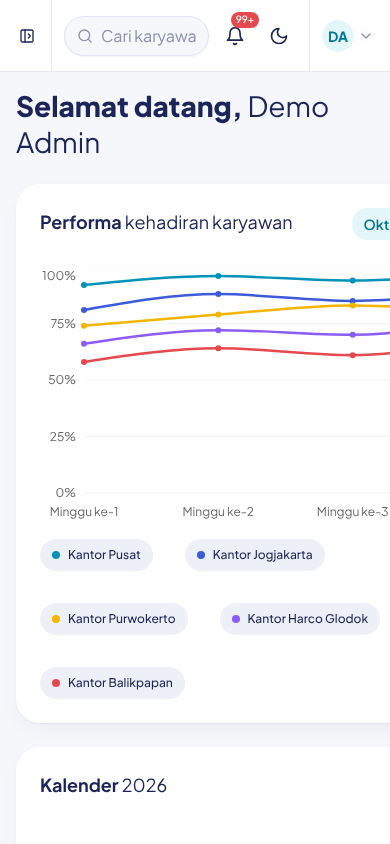
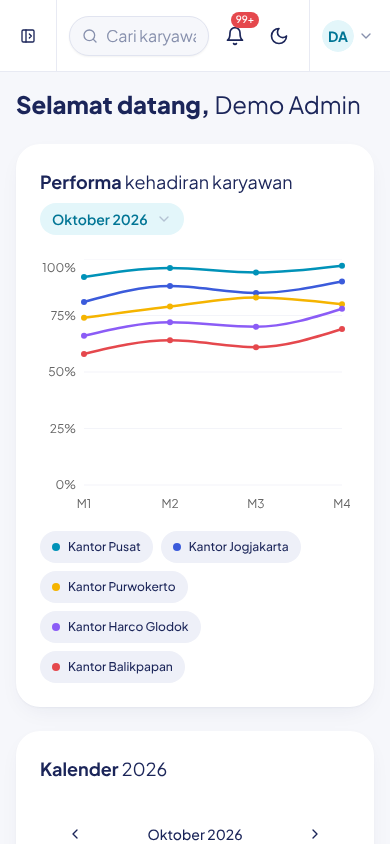
Mobile fixes and smoother sidebar collapse
- Dashboard: no horizontal overflow (grid-cols-1 + min-w-0), chart header stacks,
  short x-axis labels on mobile, smaller page title
- Touch targets >=40px on coarse pointers (button/toggle/select/tabs variants)
- Jabatan Fungsional: icon-only row actions and full-width add button on mobile
- Sidebar: no horizontal scroll (separator width), icons no longer jump during
  collapse (3.5rem rail, label fades), steady separator, fade header swap
- Calendar: symmetric selected day, no square 'today' backdrop
- Docs and README screenshots updated

Claude-Session: https://claude.ai/code/session_01GRZLXeEPPAbeHc9RCNFXTc

diff --git a/src/components/dashboard/shell.tsx b/src/components/dashboard/shell.tsx
@@ -42,7 +42,7 @@ function SidebarToggle({ className }: { className?: string }) {
 }
 
 const menuButton =
-  "h-10 rounded-xl font-medium data-[active=true]:font-semibold [&>svg]:size-5 group-data-[collapsible=icon]:size-11! group-data-[collapsible=icon]:justify-center group-data-[collapsible=icon]:gap-0 group-data-[collapsible=icon]:p-0! group-data-[collapsible=icon]:[&>span]:hidden"
+  "h-10 rounded-xl font-medium data-[active=true]:font-semibold [&>svg]:size-5 group-data-[collapsible=icon]:size-10! group-data-[collapsible=icon]:p-2.5! [&>span]:transition-opacity [&>span]:duration-150 group-data-[collapsible=icon]:[&>span]:opacity-0"
 
 /** Menu bersubmenu: Collapsible saat sidebar terbuka; dropdown (flyout) saat sidebar ciut. */
 function NavGroup({ item, path, collapsed, onNavigate }: { item: NavItem; path: string; collapsed: boolean; onNavigate: () => void }) {
@@ -135,29 +135,29 @@ export function AppSidebar({ path }: { path: string }) {
     <Sidebar collapsible="icon">
       <SidebarHeader className="h-[72px] justify-center border-b px-4 group-data-[collapsible=icon]:px-0">
         {collapsed ? (
-          <SidebarToggle className="mx-auto size-10" />
+          <SidebarToggle className="mx-auto size-10 animate-in fade-in-0 duration-300" />
         ) : (
-          <div className="flex items-center gap-3">
+          <div className="flex items-center gap-3 animate-in fade-in-0 duration-300">
             <span className="grid size-10 shrink-0 place-items-center rounded-xl bg-primary text-lg font-extrabold text-primary-foreground">f</span>
             <span className="min-w-0 flex-1 truncate text-xs font-bold tracking-[0.12em]">DEMO ACCOUNT</span>
             {!isMobile && <SidebarToggle className="size-8" />}
           </div>
         )}
       </SidebarHeader>
-      <SidebarContent>
+      <SidebarContent className="overflow-x-hidden [scrollbar-width:none] [&::-webkit-scrollbar]:hidden">
         <SidebarGroup>
           <SidebarGroupContent>
-            <SidebarMenu className="gap-1 group-data-[collapsible=icon]:items-center">{navTop.map(renderItem)}</SidebarMenu>
+            <SidebarMenu className="gap-1">{navTop.map(renderItem)}</SidebarMenu>
           </SidebarGroupContent>
         </SidebarGroup>
 
         {/* Pemisah: garis saat sidebar ciut, label "Menu Utama" saat terbuka */}
-        <SidebarSeparator className="mx-4 group-data-[collapsible=icon]:mx-3" />
+        <SidebarSeparator className="mx-3 data-[orientation=horizontal]:w-auto" />
 
         <SidebarGroup>
-          <SidebarGroupLabel className="px-2 text-[11px] font-semibold uppercase tracking-wider text-muted-foreground">Menu Utama</SidebarGroupLabel>
+          <SidebarGroupLabel className="whitespace-nowrap px-2 text-[11px] font-semibold uppercase tracking-wider text-muted-foreground">Menu Utama</SidebarGroupLabel>
           <SidebarGroupContent>
-            <SidebarMenu className="gap-1 group-data-[collapsible=icon]:items-center">{navMain.map(renderItem)}</SidebarMenu>
+            <SidebarMenu className="gap-1">{navMain.map(renderItem)}</SidebarMenu>
           </SidebarGroupContent>
         </SidebarGroup>
       </SidebarContent>
@@ -258,7 +258,7 @@ export function Topbar() {
       {/* Desktop: tombol collapse/expand ada di header sidebar. Mobile: sidebar berupa Sheet, jadi tombol di sini. */}
       {isMobile && (
         <>
-          <SidebarToggle className="ml-[11px] mr-0 size-8" />
+          <SidebarToggle className="ml-2 mr-0 size-10" />
           <Separator orientation="vertical" className="data-[orientation=vertical]:h-full" />
         </>
       )}
@@ -301,7 +301,7 @@ export function Topbar() {
       {/* Akun: hanya avatar */}
       <Separator orientation="vertical" className="mx-1 h-6 md:mx-2" />
       <DropdownMenu>
-        <DropdownMenuTrigger aria-label="Akun saya" className="flex items-center gap-1 rounded-full outline-none focus-visible:ring-[3px] focus-visible:ring-ring/40">
+        <DropdownMenuTrigger aria-label="Akun saya" className="flex h-10 items-center gap-1 rounded-full outline-none focus-visible:ring-[3px] focus-visible:ring-ring/40">
           <Avatar><AvatarFallback>DA</AvatarFallback></Avatar>
           <ChevronDown className="size-4 text-muted-foreground" />
         </DropdownMenuTrigger>

diff --git a/src/components/dashboard/attendance-chart.tsx b/src/components/dashboard/attendance-chart.tsx
@@ -5,6 +5,7 @@ import { ChartContainer, ChartTooltip, ChartTooltipContent, type ChartConfig } f
 import { Select, SelectContent, SelectItem, SelectTrigger, SelectValue } from "@/components/ui/select"
 import { ToggleGroup, ToggleGroupItem } from "@/components/ui/toggle-group"
 import { attendanceTrend, offices } from "@/data/mock"
+import { useIsMobile } from "@/hooks/use-mobile"
 
 const config = Object.fromEntries(
   offices.map((o) => [o.key, { label: o.name, color: o.color }])
@@ -13,12 +14,13 @@ const config = Object.fromEntries(
 /** Grafik performa kehadiran per kantor; ToggleGroup menyalakan/mematikan seri. */
 export function AttendanceChart() {
   const [visible, setVisible] = useState<string[]>(offices.map((o) => o.key))
+  const isMobile = useIsMobile()
 
   return (
     <Card>
-      <CardHeader>
+      <CardHeader className="max-sm:grid-cols-1">
         <CardTitle>Performa <span>kehadiran karyawan</span></CardTitle>
-        <CardAction>
+        <CardAction className="max-sm:col-start-1 max-sm:row-start-2 max-sm:justify-self-start">
           <Select defaultValue="2026-10">
             <SelectTrigger size="sm" className="rounded-xl border-0 bg-primary-soft font-semibold text-primary shadow-none" aria-label="Bulan">
               <SelectValue />
@@ -35,7 +37,7 @@ export function AttendanceChart() {
         <ChartContainer config={config} className="h-64 w-full">
           <LineChart data={attendanceTrend} margin={{ left: -16, right: 8 }}>
             <CartesianGrid vertical={false} />
-            <XAxis dataKey="week" tickLine={false} axisLine={false} tickMargin={8} />
+            <XAxis dataKey="week" tickLine={false} axisLine={false} tickMargin={8} interval={0} tickFormatter={(v: string) => (isMobile ? v.replace("Minggu ke-", "M") : v)} />
             <YAxis domain={[0, 100]} ticks={[0, 25, 50, 75, 100]} unit="%" tickLine={false} axisLine={false} />
             <ChartTooltip content={<ChartTooltipContent />} />
             {offices.map((o) =>

diff --git a/src/pages/dashboard.tsx b/src/pages/dashboard.tsx
@@ -32,13 +32,13 @@ export default function Dashboard() {
       Selamat datang, <span className="font-normal">Demo Admin</span>
     </PageHeader>
 
-    <div className="grid gap-6 xl:grid-cols-3">
-      <div className="xl:col-span-2">{loading ? <ChartCardSkeleton /> : <AttendanceChart />}</div>
+    <div className="grid grid-cols-1 gap-6 xl:grid-cols-3">
+      <div className="min-w-0 xl:col-span-2">{loading ? <ChartCardSkeleton /> : <AttendanceChart />}</div>
       {loading ? <CalendarSkeleton /> : <CalendarCard />}
     </div>
 
-    <div className="grid gap-6 xl:grid-cols-3">
-      <div className="xl:col-span-2">{loading ? <ListCardSkeleton rows={4} /> : <LeaveRequests />}</div>
+    <div className="grid grid-cols-1 gap-6 xl:grid-cols-3">
+      <div className="min-w-0 xl:col-span-2">{loading ? <ListCardSkeleton rows={4} /> : <LeaveRequests />}</div>
       {loading ? <ListCardSkeleton rows={4} ring /> : <DailyMonitoring />}
     </div>
 
@@ -48,7 +48,7 @@ export default function Dashboard() {
         <CardTitle>Detail <span>kuota yang Anda miliki</span></CardTitle>
         <CardAction><Button variant="link" size="sm">Lihat selengkapnya →</Button></CardAction>
       </CardHeader>
-      <CardContent className="grid gap-4 md:grid-cols-3">
+      <CardContent className="grid grid-cols-1 gap-4 md:grid-cols-3">
         <QuotaCard title="Perangkat" icon={Fingerprint} tone="lilac" total={51} used={18} />
         <QuotaCard title="Absensi GPS via Ponsel" icon={MapPin} tone="cyan" total={106} used={87} />
         <QuotaCard title="Karyawan" icon={Users} tone="peach" total={5406} used={369} />
@@ -56,7 +56,7 @@ export default function Dashboard() {
     </Card>
     )}
 
-    <div className="grid gap-6 lg:grid-cols-2">
+    <div className="grid grid-cols-1 gap-6 lg:grid-cols-2">
       {loading ? <><ListCardSkeleton rows={5} /><ListCardSkeleton rows={5} /></> : <>
       <PagedCard
         title="Karyawan" titleRest="indisipliner"

diff --git a/src/pages/functional-positions.tsx b/src/pages/functional-positions.tsx
@@ -84,7 +84,7 @@ export default function FunctionalPositions() {
             <TableHeader>
               <TableRow>
                 <TableHead aria-sort={asc === null ? "none" : asc ? "ascending" : "descending"}>
-                  <button type="button" onClick={() => setAsc((a) => (a === null ? true : a ? false : null))} className="inline-flex items-center gap-1.5 text-xs font-bold uppercase tracking-wide">
+                  <button type="button" onClick={() => setAsc((a) => (a === null ? true : a ? false : null))} className="-my-2 inline-flex min-h-10 items-center gap-1.5 text-xs font-bold uppercase tracking-wide">
                     Nama Jabatan <SortIcon className="size-3.5 text-muted-foreground" />
                   </button>
                 </TableHead>
@@ -110,8 +110,8 @@ export default function FunctionalPositions() {
                     <TableCell className="py-4 font-medium">{r.name}</TableCell>
                     <TableCell className="py-4">
                       <div className="flex justify-end gap-2">
-                        <Button size="sm" variant="soft" onClick={() => openForm({ mode: "edit", row: r })}><Pencil /> Ubah</Button>
-                        <Button size="sm" variant="outline" className="text-danger hover:text-danger" onClick={() => setDeleting(r)}><Trash2 /> Hapus</Button>
+                        <Button size="sm" variant="soft" aria-label={`Ubah ${r.name}`} className="max-sm:size-10 max-sm:px-0" onClick={() => openForm({ mode: "edit", row: r })}><Pencil /> <span className="max-sm:hidden">Ubah</span></Button>
+                        <Button size="sm" variant="outline" aria-label={`Hapus ${r.name}`} className="text-danger hover:text-danger max-sm:size-10 max-sm:px-0" onClick={() => setDeleting(r)}><Trash2 /> <span className="max-sm:hidden">Hapus</span></Button>
                       </div>
                     </TableCell>
                   </TableRow>

diff --git a/src/components/ui/select.tsx b/src/components/ui/select.tsx
@@ -34,7 +34,7 @@ function SelectTrigger({
       data-slot="select-trigger"
       data-size={size}
       className={cn(
-        "flex w-fit items-center justify-between gap-2 rounded-md border border-input bg-transparent px-3 py-2 text-sm whitespace-nowrap shadow-xs transition-[color,box-shadow] outline-none focus-visible:border-ring focus-visible:ring-[3px] focus-visible:ring-ring/50 disabled:cursor-not-allowed disabled:opacity-50 aria-invalid:border-destructive aria-invalid:ring-destructive/20 data-[placeholder]:text-muted-foreground data-[size=default]:h-9 data-[size=sm]:h-8 *:data-[slot=select-value]:line-clamp-1 *:data-[slot=select-value]:flex *:data-[slot=select-value]:items-center *:data-[slot=select-value]:gap-2 dark:bg-input/30 dark:hover:bg-input/50 dark:aria-invalid:ring-destructive/40 [&_svg]:pointer-events-none [&_svg]:shrink-0 [&_svg:not([class*='size-'])]:size-4 [&_svg:not([class*='text-'])]:text-muted-foreground",
+        "flex w-fit items-center justify-between gap-2 rounded-md border border-input bg-transparent px-3 py-2 text-sm whitespace-nowrap shadow-xs transition-[color,box-shadow] outline-none focus-visible:border-ring focus-visible:ring-[3px] focus-visible:ring-ring/50 disabled:cursor-not-allowed disabled:opacity-50 aria-invalid:border-destructive aria-invalid:ring-destructive/20 data-[placeholder]:text-muted-foreground data-[size=default]:h-9 pointer-coarse:data-[size=default]:h-10 data-[size=sm]:h-8 pointer-coarse:data-[size=sm]:h-10 *:data-[slot=select-value]:line-clamp-1 *:data-[slot=select-value]:flex *:data-[slot=select-value]:items-center *:data-[slot=select-value]:gap-2 dark:bg-input/30 dark:hover:bg-input/50 dark:aria-invalid:ring-destructive/40 [&_svg]:pointer-events-none [&_svg]:shrink-0 [&_svg:not([class*='size-'])]:size-4 [&_svg:not([class*='text-'])]:text-muted-foreground",
         className
       )}
       {...props}

diff --git a/src/components/organization/org-tree.tsx b/src/components/organization/org-tree.tsx
@@ -39,7 +39,7 @@ export function OrgTreeNode({
     <li role="treeitem" aria-expanded={hasKids ? open : undefined} aria-label={node.name}>
       <div className="group flex items-center gap-1 rounded-xl py-0.5 pr-1 transition-colors hover:bg-primary-soft/70">
         {hasKids ? (
-          <Button variant="ghost" size="icon-sm" className="size-7 shrink-0" aria-label={open ? `Ciutkan ${node.name}` : `Perluas ${node.name}`} onClick={() => onToggle(node.id)}>
+          <Button variant="ghost" size="icon-sm" className="size-7 shrink-0 pointer-coarse:size-9" aria-label={open ? `Ciutkan ${node.name}` : `Perluas ${node.name}`} onClick={() => onToggle(node.id)}>
             <ChevronRight className={cn("transition-transform", open && "rotate-90")} />
           </Button>
         ) : (
@@ -103,7 +103,7 @@ export function OrgTreeNode({
         {/* Layar kecil: semua aksi dalam satu menu */}
         <DropdownMenu>
           <DropdownMenuTrigger asChild>
-            <Button variant="ghost" size="icon-sm" className="size-7 shrink-0 sm:hidden" aria-label={`Aksi untuk ${node.name}`}><MoreHorizontal /></Button>
+            <Button variant="ghost" size="icon-sm" className="size-7 shrink-0 pointer-coarse:size-9 sm:hidden" aria-label={`Aksi untuk ${node.name}`}><MoreHorizontal /></Button>
           </DropdownMenuTrigger>
           <DropdownMenuContent align="end" className="w-48">
             {struktur ? (

diff --git a/src/pages/announcements.tsx b/src/pages/announcements.tsx
@@ -48,7 +48,7 @@ export default function Announcements() {
         <CardHeader>
           <CardTitle className="whitespace-nowrap">Kotak <span>pemberitahuan</span></CardTitle>
           <CardAction>
-            <Button variant="soft" size="sm" onClick={markAll} disabled={unreadIn(tab) === 0} aria-label="Tandai semua dibaca">
+            <Button variant="soft" size="sm" onClick={markAll} disabled={unreadIn(tab) === 0} aria-label="Tandai semua dibaca" className="max-sm:min-w-10">
               <CheckCheck /> <span className="hidden sm:inline">Tandai semua dibaca</span>
             </Button>
           </CardAction>
@@ -56,7 +56,7 @@ export default function Announcements() {
 
         <CardContent className="space-y-4">
           <Tabs value={tab} onValueChange={(v) => { setTab(v as Category); setPage(0) }}>
-            <TabsList className="h-10 rounded-xl">
+            <TabsList className="rounded-xl group-data-[orientation=horizontal]/tabs:h-10 pointer-coarse:group-data-[orientation=horizontal]/tabs:h-12">
               <TabsTrigger value="umum" className="gap-2 rounded-lg px-4">
                 Umum {unreadIn("umum") > 0 && <Badge className="h-5 min-w-5 justify-center rounded-full px-1.5 text-[10px]">{unreadIn("umum")}</Badge>}
               </TabsTrigger>

diff --git a/src/components/ui/calendar.tsx b/src/components/ui/calendar.tsx
@@ -102,10 +102,10 @@ function Calendar({
           defaultClassNames.week_number
         ),
         day: cn(
-          "group/day relative aspect-square h-full w-full p-0 text-center select-none [&:last-child[data-selected=true]_button]:rounded-r-md",
+          "group/day relative aspect-square h-full w-full p-0 text-center select-none [&:last-child[data-selected=true]_button]:rounded-r-xl",
           props.showWeekNumber
-            ? "[&:nth-child(2)[data-selected=true]_button]:rounded-l-md"
-            : "[&:first-child[data-selected=true]_button]:rounded-l-md",
+            ? "[&:nth-child(2)[data-selected=true]_button]:rounded-l-xl"
+            : "[&:first-child[data-selected=true]_button]:rounded-l-xl",
           defaultClassNames.day
         ),
         range_start: cn(
@@ -115,7 +115,7 @@ function Calendar({
         range_middle: cn("rounded-none", defaultClassNames.range_middle),
         range_end: cn("rounded-r-md bg-accent", defaultClassNames.range_end),
         today: cn(
-          "rounded-md bg-accent text-accent-foreground data-[selected=true]:rounded-none",
+          "rounded-md bg-accent text-accent-foreground data-[selected=true]:bg-transparent",
           defaultClassNames.today
         ),
         outside: cn(

diff --git a/src/components/ui/tabs.tsx b/src/components/ui/tabs.tsx
@@ -23,7 +23,7 @@ function Tabs({
 }
 
 const tabsListVariants = cva(
-  "group/tabs-list inline-flex w-fit items-center justify-center rounded-lg p-[3px] text-muted-foreground group-data-[orientation=horizontal]/tabs:h-9 group-data-[orientation=vertical]/tabs:h-fit group-data-[orientation=vertical]/tabs:flex-col data-[variant=line]:rounded-none",
+  "group/tabs-list inline-flex w-fit items-center justify-center rounded-lg p-[3px] text-muted-foreground group-data-[orientation=horizontal]/tabs:h-9 pointer-coarse:group-data-[orientation=horizontal]/tabs:h-11 group-data-[orientation=vertical]/tabs:h-fit group-data-[orientation=vertical]/tabs:flex-col data-[variant=line]:rounded-none",
   {
     variants: {
       variant: {

diff --git a/src/components/ui/button.tsx b/src/components/ui/button.tsx
@@ -23,11 +23,11 @@ const buttonVariants = cva(
       size: {
         default: "h-10 px-4 py-2 has-[>svg]:px-3",
         xs: "h-6 gap-1 rounded-md px-2 text-xs has-[>svg]:px-1.5 [&_svg:not([class*='size-'])]:size-3",
-        sm: "h-8 gap-1.5 rounded-md px-3 has-[>svg]:px-2.5",
+        sm: "h-8 pointer-coarse:h-10 gap-1.5 rounded-md px-3 has-[>svg]:px-2.5",
         lg: "h-10 rounded-md px-6 has-[>svg]:px-4",
-        icon: "size-9",
+        icon: "size-9 pointer-coarse:size-10",
         "icon-xs": "size-6 rounded-md [&_svg:not([class*='size-'])]:size-3",
-        "icon-sm": "size-8",
+        "icon-sm": "size-8 pointer-coarse:size-10",
         "icon-lg": "size-10",
       },
     },

diff --git a/src/components/dashboard/page-header.tsx b/src/components/dashboard/page-header.tsx
@@ -32,9 +32,9 @@ export function PageHeader({ crumbs, children, actions }: { crumbs: Crumb[]; chi
         </BreadcrumbList>
       </Breadcrumb>
       )}
-      <h1 className="text-display font-extrabold">{children}</h1>
+      <h1 className="text-display font-extrabold max-sm:text-2xl">{children}</h1>
     </div>
-    {actions && <div className="flex items-center gap-2">{actions}</div>}
+    {actions && <div className="flex items-center gap-2 max-sm:w-full max-sm:[&>button]:w-full">{actions}</div>}
     </div>
   )
 }

diff --git a/src/components/dashboard/app-layout.tsx b/src/components/dashboard/app-layout.tsx
@@ -6,7 +6,7 @@ import { TooltipProvider } from "@/components/ui/tooltip"
 export function AppLayout({ path, children }: { path: string; children: React.ReactNode }) {
   return (
     <TooltipProvider>
-      <SidebarProvider style={{ "--sidebar-width-icon": "4rem" } as React.CSSProperties}>
+      <SidebarProvider style={{ "--sidebar-width-icon": "3.5rem" } as React.CSSProperties}>
         <AppSidebar path={path} />
         <SidebarInset className="bg-background">
           <Topbar />
